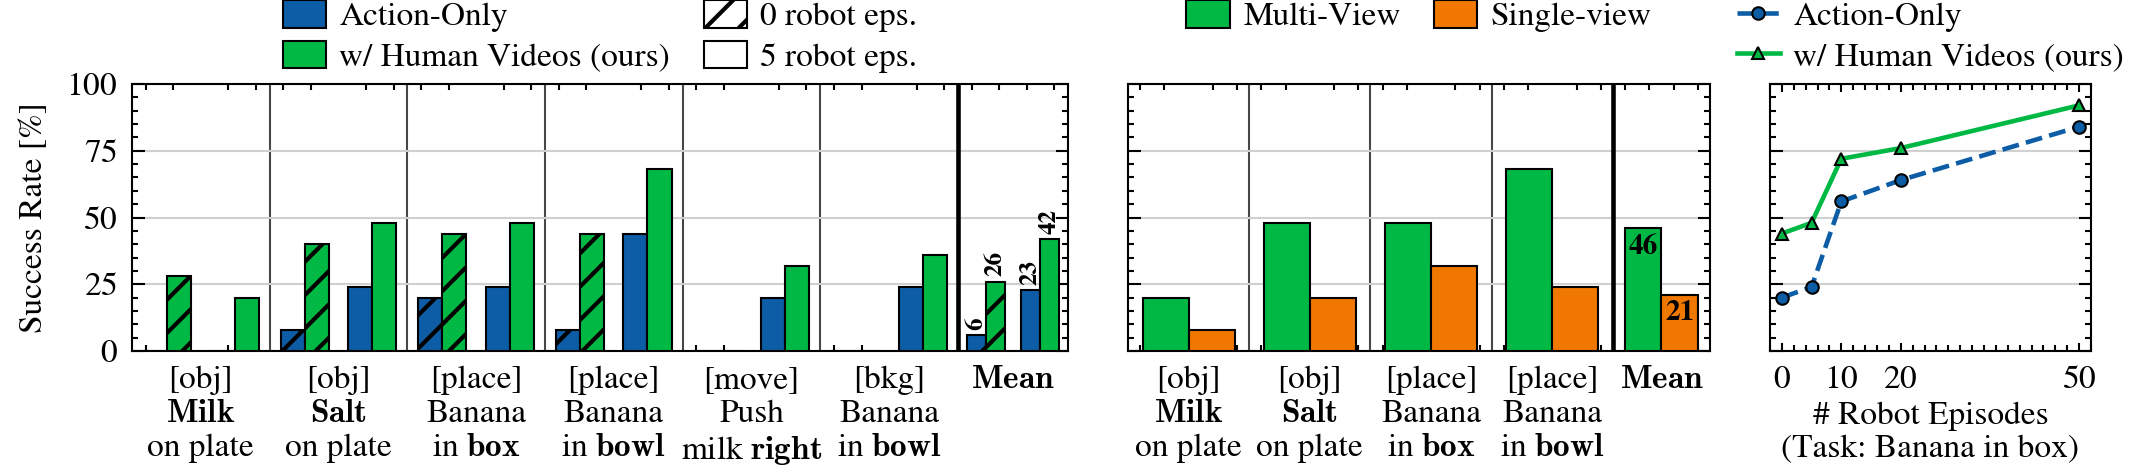
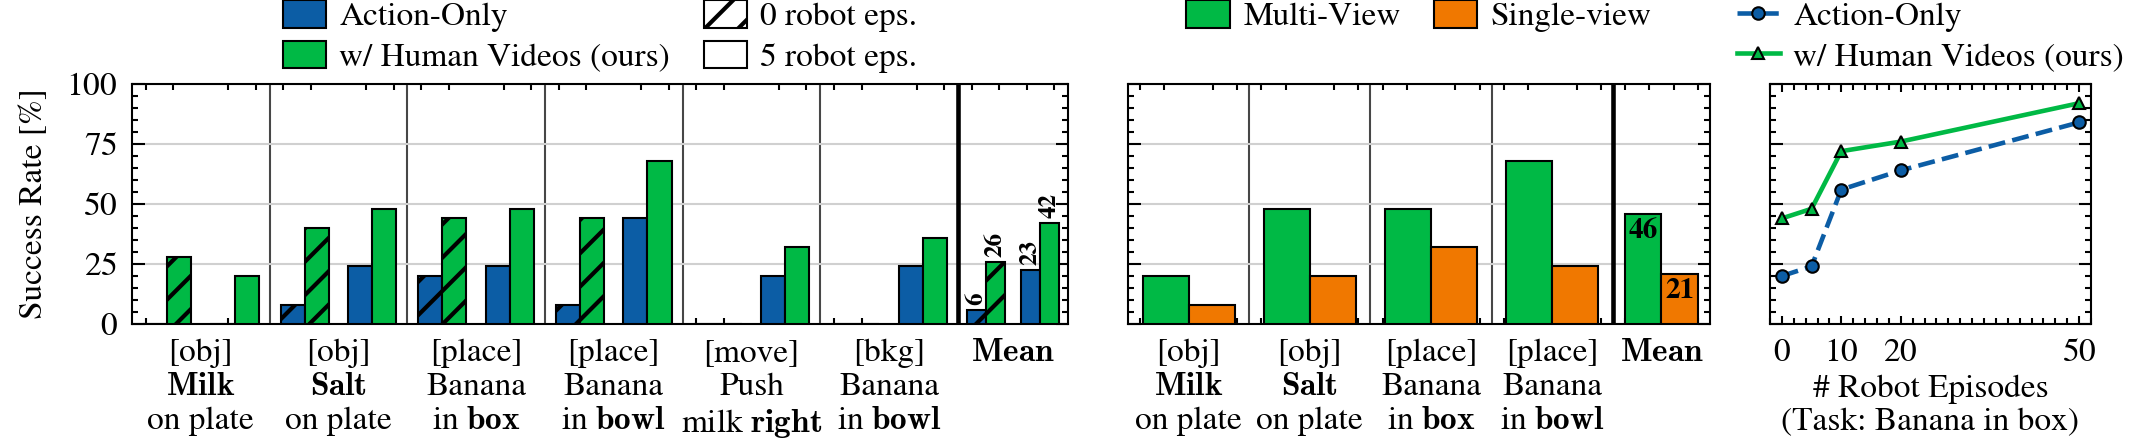
realworld_row: plot body 10% shorter (0.89 -> 0.80in); page 1.49in

diff --git a/plot_realworld_row.py b/plot_realworld_row.py
@@ -206,8 +206,9 @@ XTICKS_IN = 0.41     # three-line task labels (bar panels) and the two-line
 # total comes out of the body -- unless the bands themselves had slack. The
 # first 10% cut (1.96 -> 1.76) cost the body 19%; the second (1.76 -> 1.58,
 # 2026-09-27) was paid for entirely by re-measuring the bands (legend padding,
-# legend-to-axes gap, empty space under the tick labels), so the body grew.
-FIG_HEIGHT_IN = 1.58
+# legend-to-axes gap, empty space under the tick labels), so the body grew;
+# 1.58 -> 1.49 then took 10% off the body itself (0.89 -> 0.80in).
+FIG_HEIGHT_IN = 1.49
 MIN_BODY_IN = 0.70   # below this the 0-100 axis stops being readable
 
 
